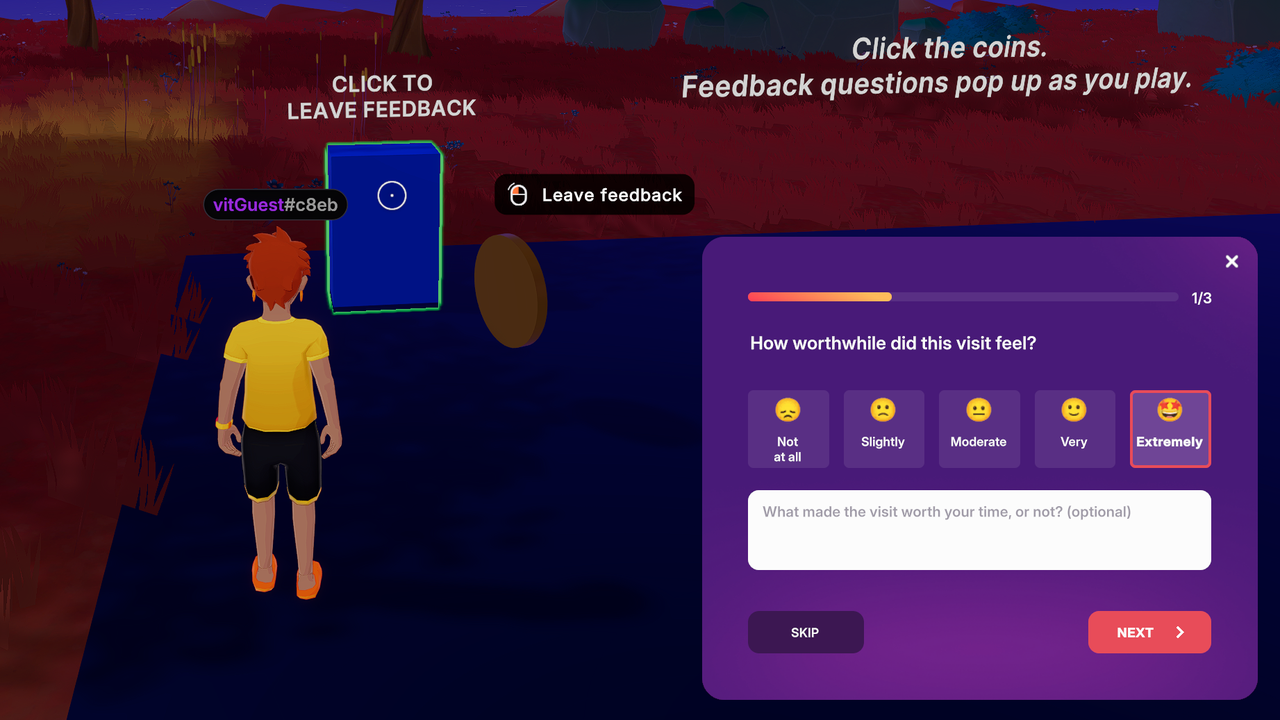
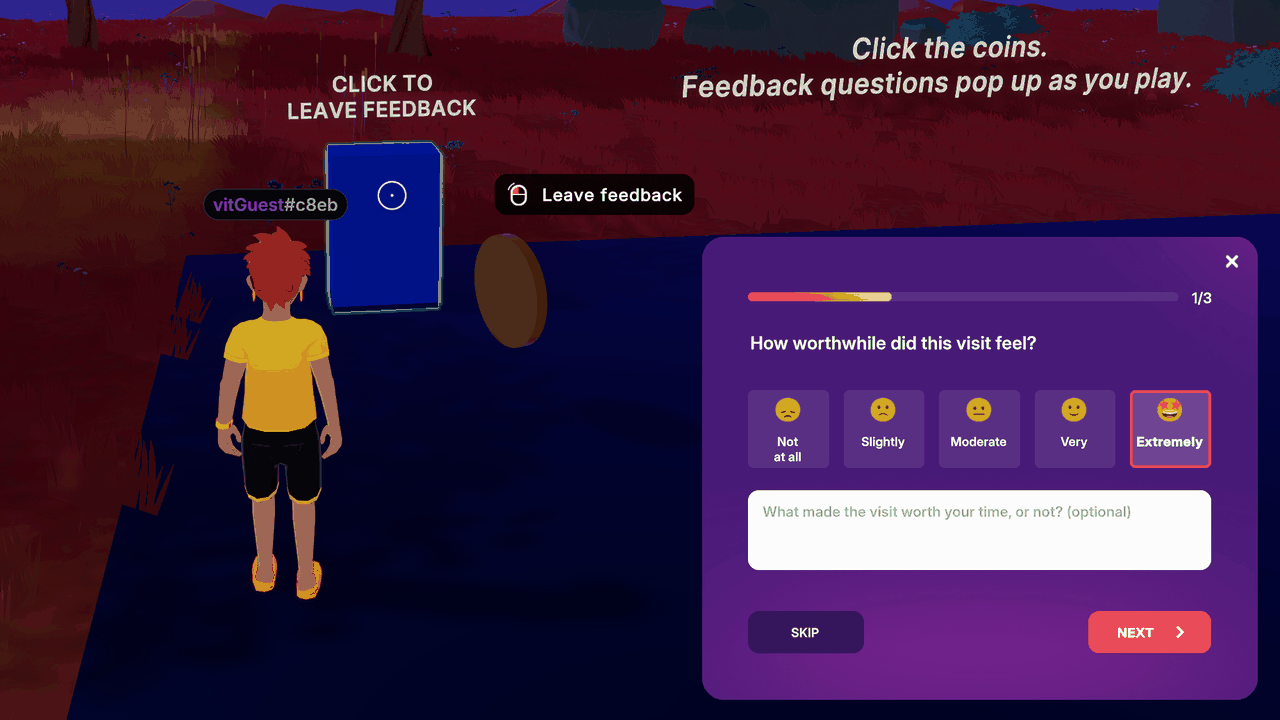
fix: scene feedback review fixes (CI, World, Intro crash, server limits)
- drop the @dcl/js-runtime pin: CI installed two copies and failed type-check
- target sdk7testscenes.dcl.eth, declare USE_FETCH, drop Creator Hub leftovers from scene.json
- Intro on screen never expires while the server is down; guard declineIntro
- Skip/× after Back no longer sends the on-screen step's earlier answer
- server: 30 rows per address per 10 min, platform capped, seen ids pruned
- server: last-player-left flush retried until it succeeds; heartbeat only once responses are accepted
- CSV: id through field(), formula prefix checked after leading whitespace
- owner lookup uses the .zone Worlds server on .zone realms, logs the error body
- .dclignore all .md, thumbnail 652 KB -> 240 KB, outcome Questions aligned in README and guide

diff --git a/scenes/0,-1-scene-feedback/src/playtest-feedback/lib/server/server.ts b/scenes/0,-1-scene-feedback/src/playtest-feedback/lib/server/server.ts
@@ -25,15 +25,25 @@ const CURRENT_PART_KEY = 'playtest-feedback-csv-head' // the number of the part 
 const PART_MAX_BYTES = 400 * 1024 // Storage caps one value at 512 KB
 const FLUSH_COOLDOWN_MS = 60_000
 const LOAD_RETRY_MS = 5_000
+// Per address: caps what one client can write. A legit visit sends a few rows.
+const RATE_WINDOW_MS = 10 * 60_000
+const RATE_MAX_ROWS = 30
+// longer than a client keeps resending (30 s of server uptime)
+const SEEN_KEEP_MS = 10 * 60_000
 
 // acked, not yet in Storage
 const pending = new Map<string, string>()
-// acked this session: a resend is re-acked, not re-added
-const seen = new Set<string>()
+// id → accepted at: a resend is re-acked, not re-added
+const seen = new Map<string, number>()
+// address → accepted-at times within RATE_WINDOW_MS
+const recentRows = new Map<string, number[]>()
 
 let currentPart = 0 // 0 = not loaded yet: responses are not accepted
 let flushing = false
 let lastFlushAt = 0
+// last player left: flush now, retried until it succeeds
+let flushRequested = false
+let failedAt = 0
 let playerCount = 0
 let sceneVersion = ''
 
@@ -46,8 +56,6 @@ export async function startServer(introSpec: IntroSpec | null): Promise<void> {
   heartbeatEntity = engine.addEntity()
   ServerHeartbeat.create(heartbeatEntity, { beatAt: Date.now() })
   syncEntity(heartbeatEntity, [ServerHeartbeat.componentId])
-  engine.addSystem(heartbeatSystem)
-  engine.addSystem(flushSystem)
 
   room.onMessage('feedbackSubmit', (data, context) => {
     if (context) receiveResponse(data, context.from)
@@ -56,6 +64,9 @@ export async function startServer(introSpec: IntroSpec | null): Promise<void> {
   // Not awaited: readiness must never hang on a runtime call that isn't Storage.
   void readSceneVersion().then((version) => (sceneVersion = version))
   await loadCurrentPart()
+  // clients count the server alive only once beatAt changes: not before responses are accepted
+  engine.addSystem(heartbeatSystem)
+  engine.addSystem(flushSystem)
   console.log(`[SERVER] Feedback server ready at +${sinceLoad()}, writing ${partKey(currentPart)}, ${countPlayers()} player(s)`)
 }
 
@@ -111,6 +122,10 @@ function receiveResponse(
   if (seen.has(id)) return ack(true)
 
   if (id === '') return ack(false)
+  if (!withinRate(from.toLowerCase())) {
+    console.log(`[SERVER] ${from} over ${RATE_MAX_ROWS} rows in ${RATE_WINDOW_MS / 60_000} min, dropped`)
+    return ack(false)
+  }
   if (data.questionId === INTRO_ID) return receiveIntroAnswer(id, data, from, ack)
   const question = findQuestion(data.questionId)
   if (!question) return ack(false)
@@ -135,11 +150,10 @@ function receiveResponse(
     playersInScene: countPlayers(),
     address,
     isGuest: findIsGuest(address),
-    platform: data.platform
+    platform: data.platform.slice(0, 20)
   }
 
-  seen.add(id)
-  pending.set(id, formatRow(row))
+  accept(id, address, row)
   console.log(`[SERVER] ${question.id} rating=${rating ?? '-'} from ${address}, ${pending.size} pending`)
   ack(true)
 }
@@ -169,12 +183,34 @@ function receiveIntroAnswer(
     playersInScene: countPlayers(),
     address,
     isGuest: findIsGuest(address),
-    platform: data.platform
+    platform: data.platform.slice(0, 20)
   }
-  seen.add(id)
-  pending.set(id, formatRow(row))
+  accept(id, address, row)
   console.log(`[SERVER] intro ${row.ratingLabel} from ${address}, ${pending.size} pending`)
   ack(true)
+}
+
+function accept(id: string, address: string, row: CsvRow): void {
+  const now = Date.now()
+  seen.set(id, now)
+  const times = recentRows.get(address)
+  if (times) times.push(now)
+  else recentRows.set(address, [now])
+  pending.set(id, formatRow(row))
+}
+
+function withinRate(address: string): boolean {
+  const now = Date.now()
+  const times = (recentRows.get(address) ?? []).filter((t) => now - t < RATE_WINDOW_MS)
+  if (times.length === 0) recentRows.delete(address)
+  else recentRows.set(address, times)
+  return times.length < RATE_MAX_ROWS
+}
+
+function forgetOld(): void {
+  const now = Date.now()
+  for (const [id, at] of seen) if (now - at > SEEN_KEEP_MS) seen.delete(id)
+  for (const address of [...recentRows.keys()]) withinRate(address)
 }
 
 // Re-read and merge by id right before writing: after a redeploy two instances overlap briefly.
@@ -205,9 +241,12 @@ async function flush(): Promise<void> {
 
     if (!(await Storage.set(partKey(currentPart), csv))) throw new Error('Storage.set returned false')
     for (const [id] of batch) pending.delete(id)
+    // rows that arrived during this flush still need one
+    if (pending.size === 0) flushRequested = false
     console.log(`[SERVER] Flushed ${rows.length} row(s) to ${partKey(currentPart)} (${utf8Length(csv)} B)`)
   } catch (e) {
-    // rows stay pending for the next cooldown
+    // rows stay pending: retried after LOAD_RETRY_MS if requested, else at the next cooldown
+    failedAt = Date.now()
     console.log('[SERVER] Flush failed:', e)
   } finally {
     flushing = false
@@ -218,11 +257,20 @@ function flushSystem(): void {
   if (currentPart === 0) return
 
   const count = countPlayers()
-  const lastPlayerLeft = playerCount > 0 && count === 0
+  if (playerCount > 0 && count === 0) flushRequested = true
   playerCount = count
 
-  if (pending.size === 0) return
-  if (lastPlayerLeft || Date.now() - lastFlushAt >= FLUSH_COOLDOWN_MS) void flush()
+  if (pending.size === 0) {
+    flushRequested = false
+    return
+  }
+  if (flushing) return
+  const now = Date.now()
+  const retryDue = flushRequested && now - failedAt >= LOAD_RETRY_MS
+  if (retryDue || now - lastFlushAt >= FLUSH_COOLDOWN_MS) {
+    forgetOld()
+    void flush()
+  }
 }
 
 function countPlayers(): number {

diff --git a/scenes/0,-1-scene-feedback/src/playtest-feedback/lib/client/owner.ts b/scenes/0,-1-scene-feedback/src/playtest-feedback/lib/client/owner.ts
@@ -2,7 +2,9 @@ import { engine } from '@dcl/sdk/ecs'
 import { getPlayer } from '@dcl/sdk/players'
 import { getRealm, getSceneInformation } from '~system/Runtime'
 
+// .zone realm (testnet Worlds): the .zone server, else mainnet
 const WORLDS_SERVER = 'https://worlds-content-server.decentraland.org'
+const WORLDS_SERVER_ZONE = 'https://worlds-content-server.decentraland.zone'
 const WALLET = /^0x[0-9a-fA-F]{40}$/
 
 export function isWallet(value: string): boolean {
@@ -25,8 +27,10 @@ async function lookUpSceneTeam(): Promise<SceneTeam> {
     const declared = typeof metadata.owner === 'string' && isWallet(metadata.owner) ? metadata.owner.toLowerCase() : null
     const world = metadata.worldConfiguration?.name
     if (typeof world !== 'string' || world === '') return { owner: declared, deployers: [] }
-    const response = await fetch(`${WORLDS_SERVER}/world/${encodeURIComponent(world)}/permissions`)
-    if (!response.ok) throw new Error(`HTTP ${response.status}`)
+    const { realmInfo } = await getRealm({})
+    const server = realmInfo?.baseUrl.includes('decentraland.zone') ? WORLDS_SERVER_ZONE : WORLDS_SERVER
+    const response = await fetch(`${server}/world/${encodeURIComponent(world)}/permissions`)
+    if (!response.ok) throw new Error(`HTTP ${response.status}: ${await response.text()}`)
     const body = (await response.json()) as {
       owner?: unknown
       permissions?: { deployment?: { wallets?: unknown } }

diff --git a/scenes/0,-1-scene-feedback/src/playtest-feedback/lib/client/state.ts b/scenes/0,-1-scene-feedback/src/playtest-feedback/lib/client/state.ts
@@ -136,6 +136,8 @@ function processQueue(): void {
   }
   if (!alive) {
     for (let i = queue.length - 1; i >= 0; i--) {
+      // the Intro on screen stays until answered
+      if (i === 0 && feedback.phase === 'intro') continue
       if (Date.now() - queue[i].askedAt < SERVER_WAIT_MS) continue
       const ids = queue[i].steps.map((s) => s.question.id).join(', ')
       console.log(`[FEEDBACK] server not up after ${SERVER_WAIT_MS / 1000} s, not showing ${ids}`)
@@ -260,6 +262,7 @@ export function declineIntro(): void {
     return dropped.resolve(dropped.results)
   }
   const [answered] = queue.splice(0, 1)
+  if (!answered) return
   answered.results[0] = 'skipped'
   answered.resolve(answered.results)
   if (answered.source === 'debug') return
@@ -363,7 +366,8 @@ export function submitGroup(): void {
   if (!current || feedback.phase !== 'open' || !isLastStep()) return
   keepAnswer()
   if (current.steps.some((s) => s.answer)) showToast()
-  closeGroup()
+  sendGroup(current)
+  finishGroup()
 }
 
 export function showToast(): void {
@@ -374,6 +378,7 @@ export function showToast(): void {
 // unreached steps get no Response.
 export function closeGroup(): void {
   if (!current || feedback.phase !== 'open') return
+  current.steps[step].answer = undefined
   sendGroup(current)
   finishGroup()
 }

diff --git a/scenes/0,-1-scene-feedback/src/playtest-feedback/lib/server/csv.ts b/scenes/0,-1-scene-feedback/src/playtest-feedback/lib/server/csv.ts
@@ -21,7 +21,7 @@ export type CsvRow = {
 
 export function formatRow(row: CsvRow): string {
   return [
-    row.id,
+    field(row.id),
     // "2026-09-30 12:27:33": parsed as a date-time by Sheets and Excel, unlike ISO with a Z.
     new Date(row.serverTs).toISOString().slice(0, 19).replace('T', ' '),
     row.version,
@@ -47,13 +47,15 @@ export function hasRow(csv: string, id: string): boolean {
 }
 
 export function sanitizeId(requestId: string): string {
-  return requestId.replace(/[^A-Za-z0-9-]/g, '').slice(0, 40)
+  // no leading -: field() would prefix it and hasRow() would miss the row
+  return requestId.replace(/[^A-Za-z0-9-]/g, '').replace(/^-+/, '').slice(0, 40)
 }
 
-// Newlines flattened (one row = one line). Leading = + - @ prefixed with ' so spreadsheets don't run it as a formula.
+// Newlines flattened (one row = one line). Leading = + - @, after any whitespace, prefixed with ' so
+// spreadsheets don't run it as a formula.
 function field(value: string): string {
   let v = value.replace(/[\r\n]+/g, ' ')
-  if (/^[=+\-@\t]/.test(v)) v = `'${v}`
+  if (/^\s*[=+\-@]/.test(v)) v = `'${v}`
   return /[",]/.test(v) ? `"${v.replace(/"/g, '""')}"` : v
 }
 

diff --git a/scenes/0,-1-scene-feedback/README.md b/scenes/0,-1-scene-feedback/README.md
@@ -184,8 +184,8 @@ More on timing, wording and reading the answers: [QUESTION_GUIDE.md](QUESTION_GU
   pick calmer moments for real Questions.
 - **Not only winners.** Players who gave up or lost are the ones you learn the most from; trigger
   on leaving or failing too, not just on completing.
-- **Few Questions per visit**: one outcome Question (`playMore`, `comeBack` or `worthIt`) plus two or three
-  focused ones. Never all 20.
+- **Few Questions per visit**: one outcome Question (`playMore`, `comeBack`, `worthIt`, or E01/E02 from
+  [QUESTION_BANK.md](QUESTION_BANK.md)) plus two or three focused ones. Never all 20.
 
 ## Test
 
@@ -231,11 +231,15 @@ mfqz8k2x4f7a,2026-09-30 12:27:33,x7q2mdk4ea,playMore,How interested are you in p
   empty comment there means "not offered", not "left blank". Also empty when the call's `comment`
   option left the field out.
 - `trigger`: the label passed to `feedback.ask()` or `feedback.leaveFeedback()` (`debug` for the
-  debug buttons).
+  debug buttons: your own test rows, filter them out).
 - `secondsInScene`: from the player's scene load to the answer, reported by the client.
 - `playersInScene`: players in the scene when the server received the answer (solo vs group).
 - `id` dedupes client resends and merges rows when two server instances overlap after a redeploy.
 - `platform` is self-reported by the client.
 - Comments are flattened to one line, and a leading `= + - @` is prefixed with `'` so spreadsheets
   don't run it as a formula.
-- Buffered Responses live in server memory until flushed: a server crash loses up to a minute of them.
+- The server acks a Response once buffered, not once in Storage: a crash or redeploy loses up to a
+  minute of them, and the client doesn't resend.
+- Storage has no compare-and-set: while two server instances overlap after a redeploy, one flush can
+  overwrite the other's rows.
+- One address can write at most 30 rows per 10 minutes; the rest are dropped.

diff --git a/scenes/0,-1-scene-feedback/QUESTION_GUIDE.md b/scenes/0,-1-scene-feedback/QUESTION_GUIDE.md
@@ -11,7 +11,7 @@ the playtest research (Sept 2026) and DCL studio playtest reports.
   can't tell whether they did, don't ask that Question.
 - **Not only winners.** Players who failed, gave up or left early show the most. Trigger on
   failing and leaving too, and offer `leaveFeedback()` for anyone.
-- **Few per visit**: one outcome Question (E01, E02, T01 or T09) plus two or three about the part
+- **Few per visit**: one outcome Question (E01, E02, T01, T02 or T09) plus two or three about the part
   you are testing. Don't re-ask after every action.
 - **Saying no costs nothing**: Skip and × never take progress away.
 
